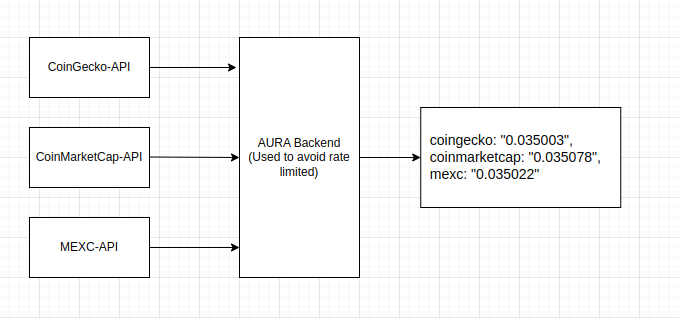
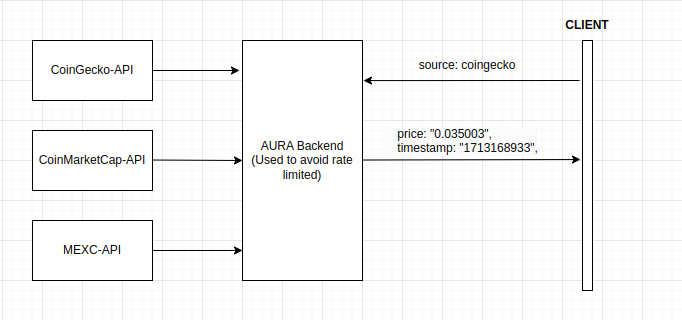
Update readme

diff --git a/data-source/README.md b/data-source/README.md
@@ -26,12 +26,24 @@ python aura_price-coingecko.py
 ## Integration with AURA Backend to avoid Rate Limiting issue
 ![AURA-BE](./img/AURA-BE.png)
 
-AURA Backend should return an API to help aura_price-coingecko.py, aura_price-coinmarketcap.py and aura_price-mexc.py to fetch the price with USD of AURA from CoinGecko, CoinMarketCap and MEXC. The API response should be in the following format:
+AURA Backend should return an API to help aura_price-coingecko.py, aura_price-coinmarketcap.py and aura_price-mexc.py to fetch the price with USD of AURA from CoinGecko, CoinMarketCap and MEXC.
+The input of the API should be the name of the exchange, and the output should be the corresponding price and timestamp.
+
+The input param of API should be in the following format:
 
 ```
 {
-  coingecko: "0.035003",
-  coinmarketcap: "0.03500302",
-  mexc: "0.03500302"
+  source: "coingecko"
 }
 ```
+
+The API response should be in the following format:
+
+```
+{
+  price: "0.035003",
+  timestamp: "1713168933",
+}
+```
+
+Note: Backend should handle the rate limiting issue of CoinGecko, CoinMarketCap and MEXC. Each source should be limited to 1 request per 30 second. If the rate limit is reached, the API should return the latest price and timestamp.
